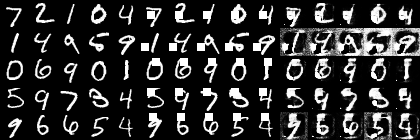
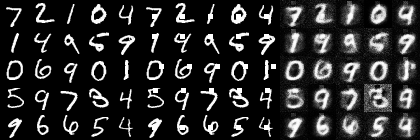
Salt position&size changes.

diff --git a/custom_noise.py b/custom_noise.py
@@ -16,15 +16,15 @@ def salt_and_pepper_custom(input):
     saltarr2 = np.zeros((28, 28)) #zeros
 
     dim = 28
-    pixs = 8
+    pixs = 5
     range_lim = 1 #white
     range_lim2 = 0 #black
 
     rdarray_x = random.sample(range(0, dim - pixs), range_lim)
-    rdarray_x2 = random.sample(range(0, dim - pixs), range_lim)
+    rdarray_x2 = random.sample(range(10, 20), range_lim)
 
-    rdarray_y = random.sample(range(0, dim - pixs), range_lim2)
-    rdarray_y2 = random.sample(range(0, dim - pixs), range_lim2)
+    #rdarray_y = random.sample(range(0, dim - pixs), range_lim2)
+    #rdarray_y2 = random.sample(range(0, dim - pixs), range_lim2)
 
     for x in range(0, range_lim):
         saltarr[rdarray_x[x]:rdarray_x[x] + pixs, rdarray_x2[x]:rdarray_x2[x] + pixs] = 0 #0

diff --git a/main.py b/main.py
@@ -76,7 +76,7 @@ if __name__ == '__main__':
     dae = DenoisingAutoencoder()
 
     # make an optimizer to train it (AdaDelta is a good default)
-    optimizer = AdaDelta(model=dae, dataset=mnist, n_epoch=500)
+    optimizer = AdaDelta(model=dae, dataset=mnist, n_epoch=1)
     # perform training!
     optimizer.train()
 
